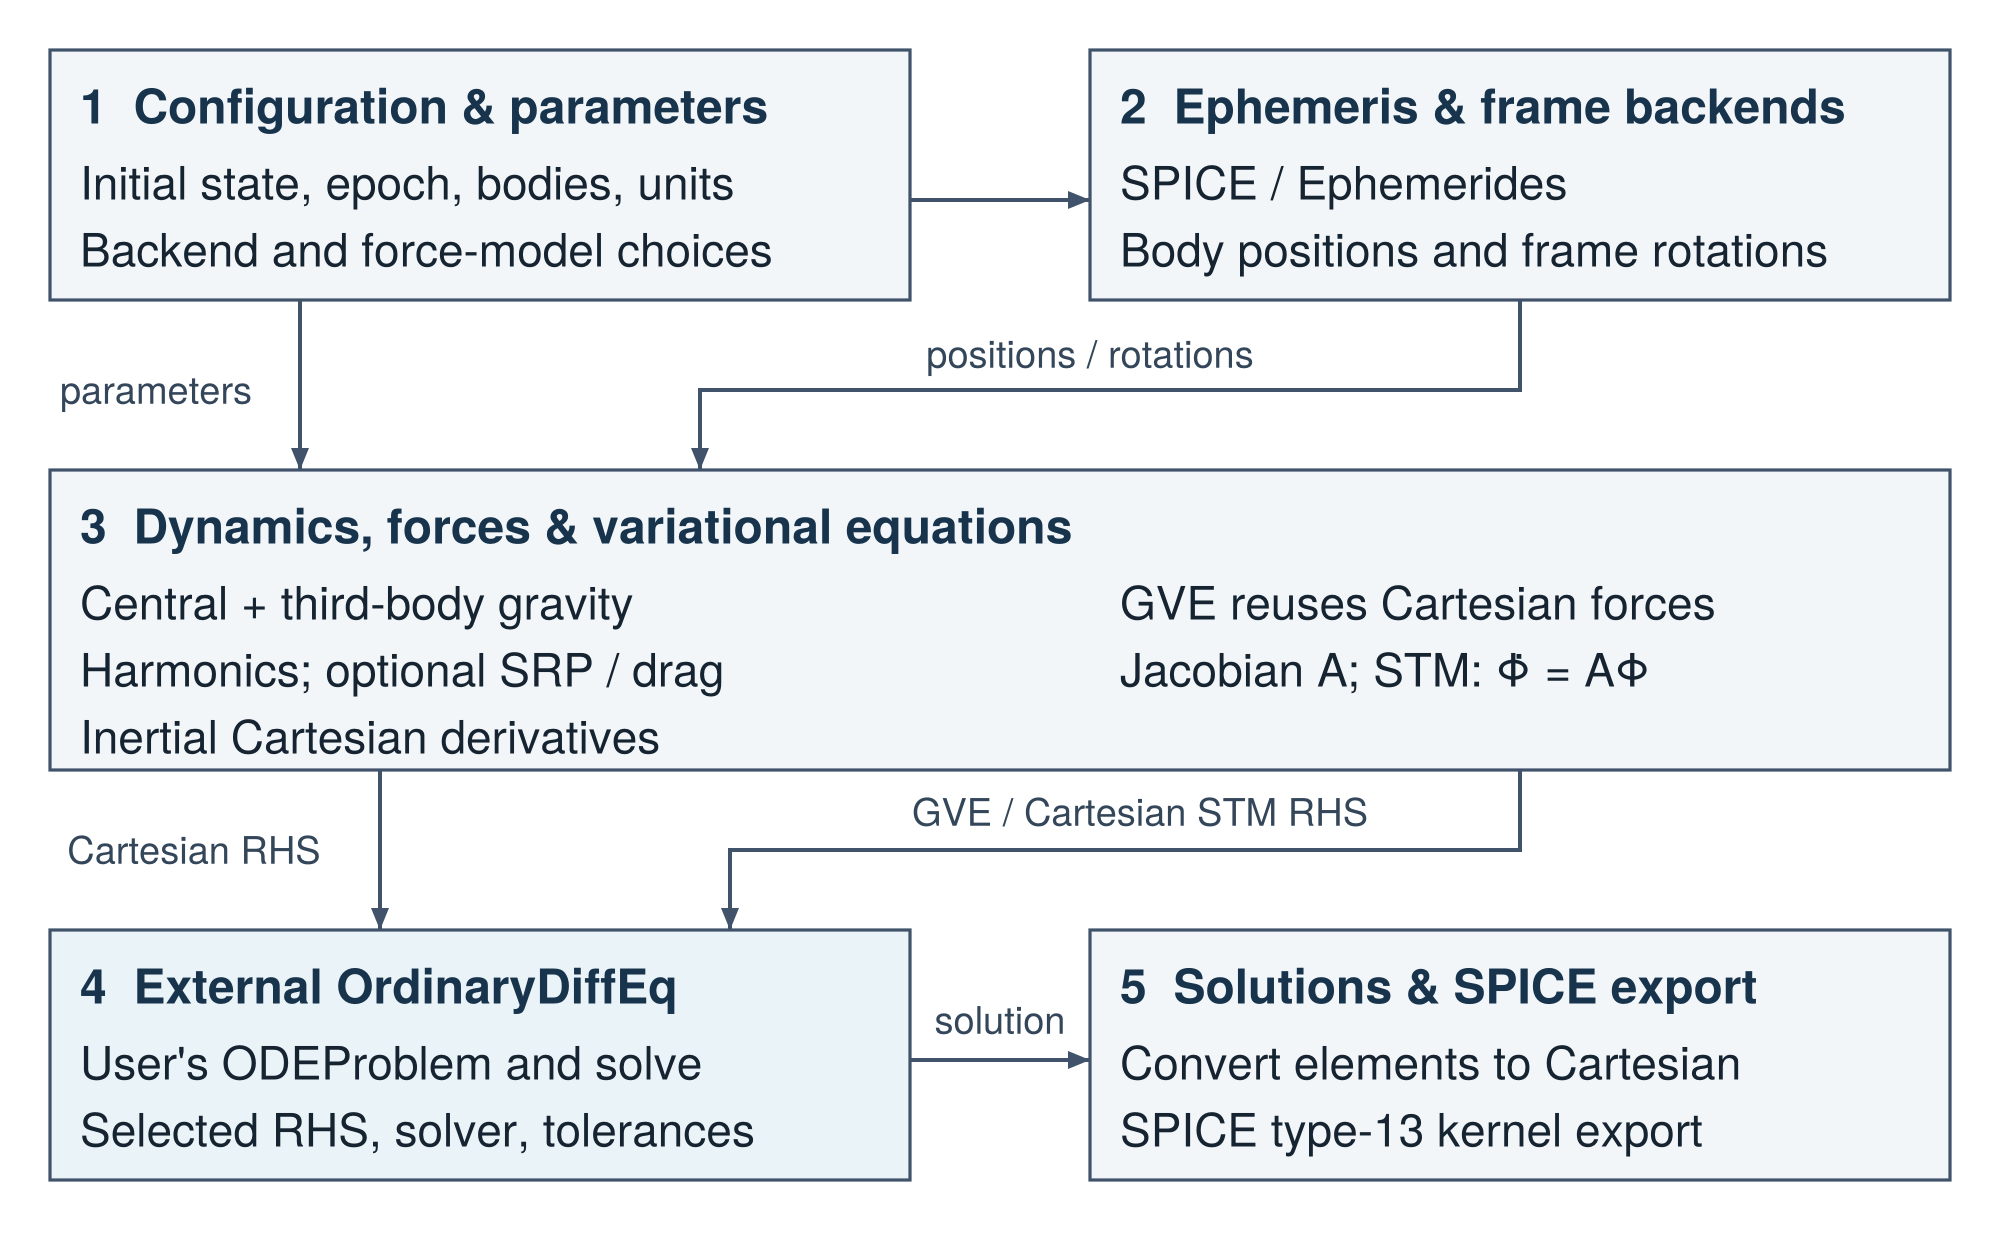
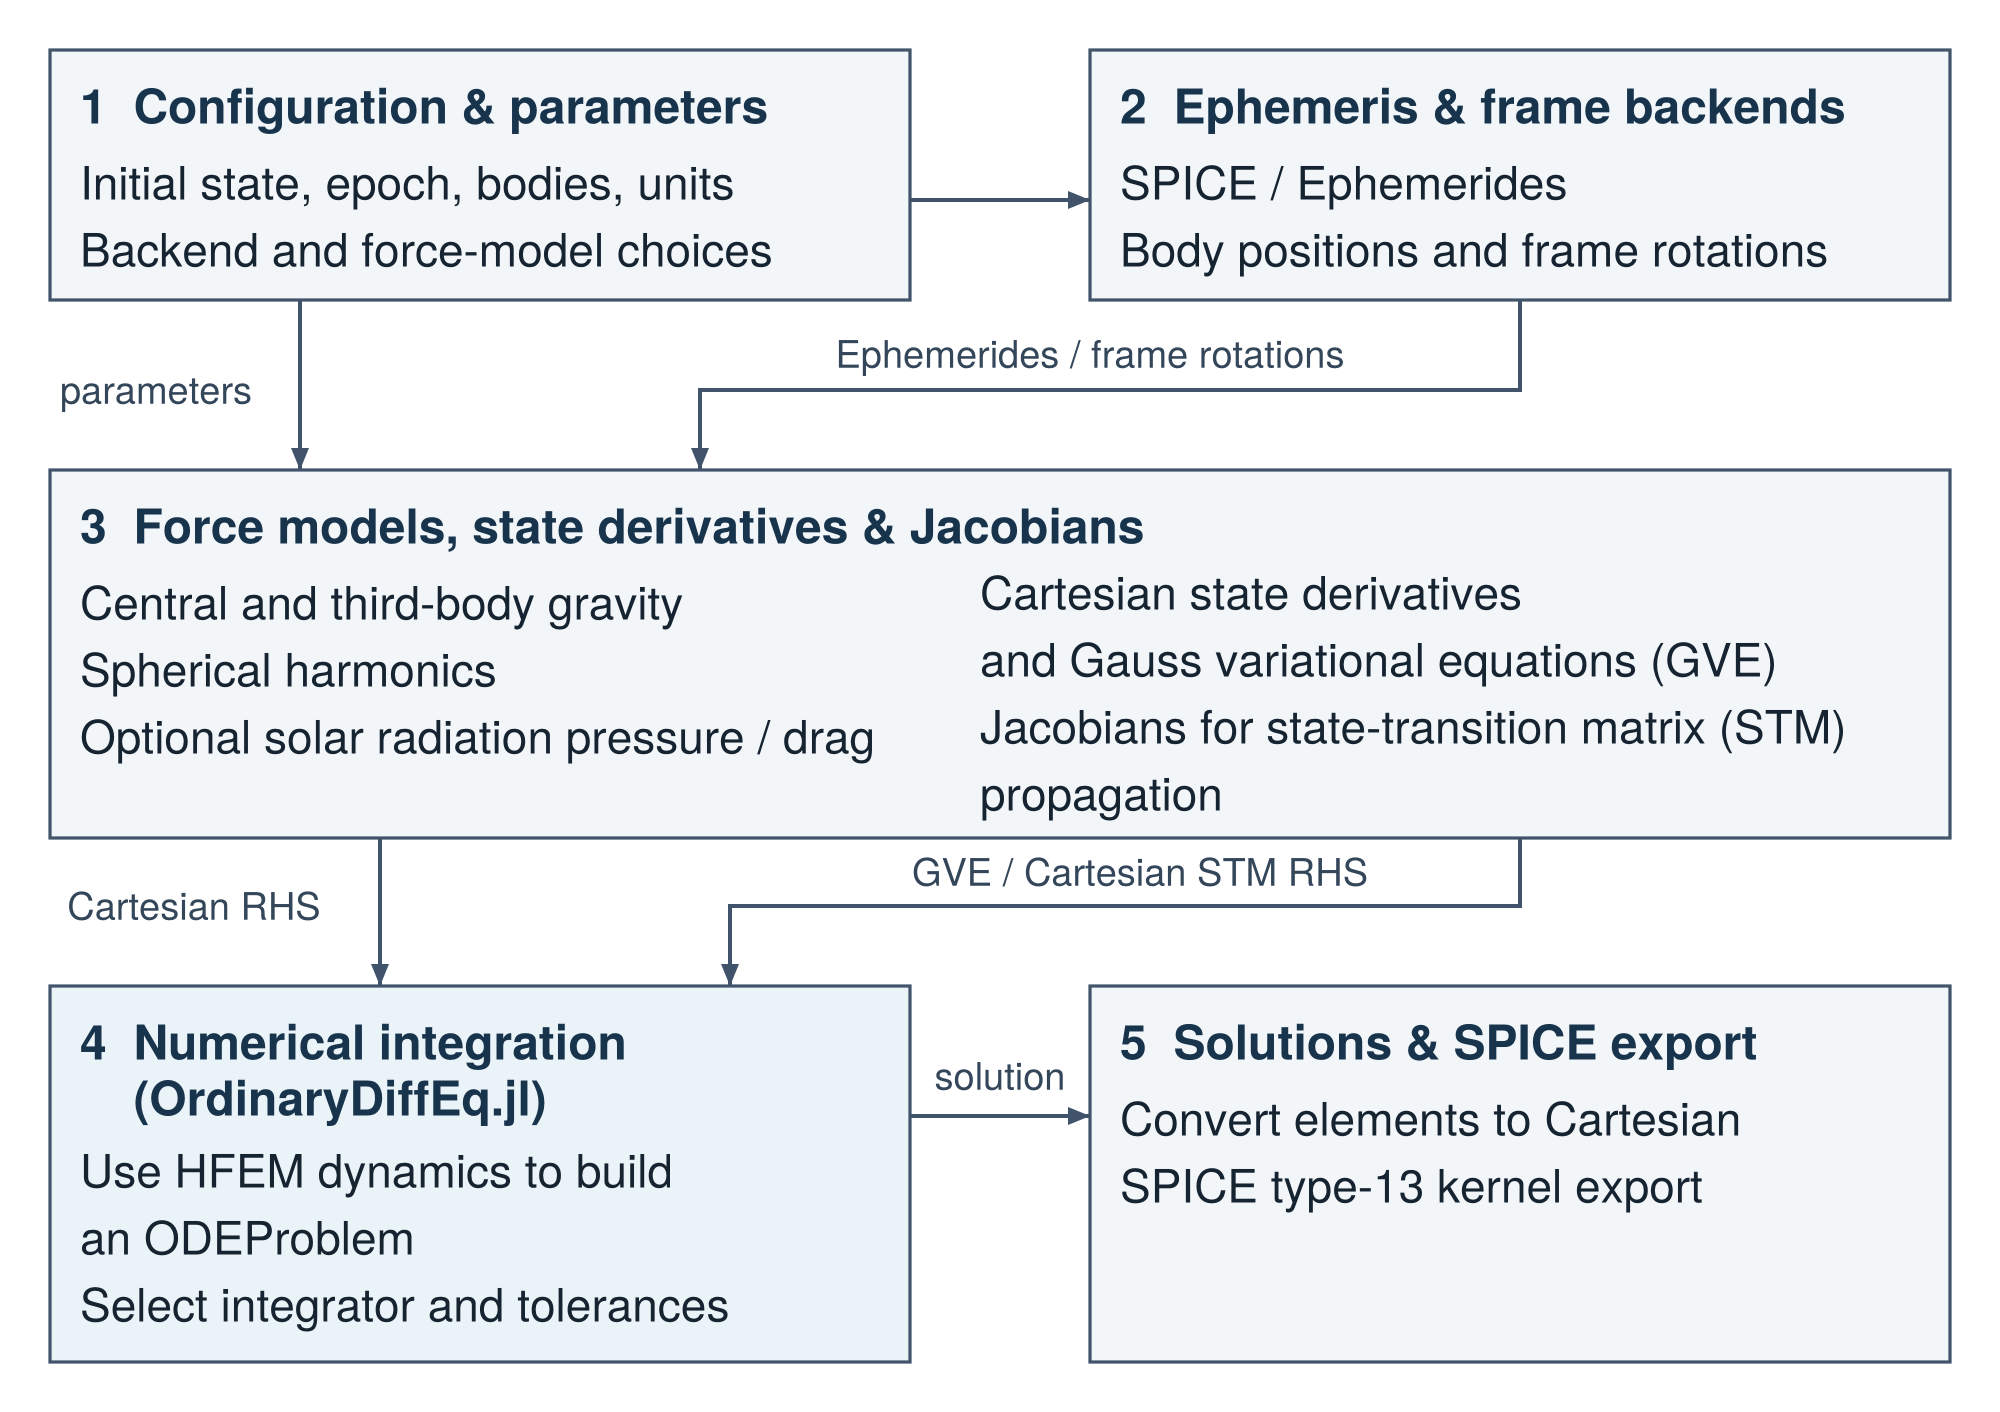
edited figures 2, 4 and refined text

Changed region(s): [[0.031, 0.0306, 0.992, 0.9806], [0.031, 0.0306, 0.465, 0.2452]]

diff --git a/paper/paper.md b/paper/paper.md
@@ -26,18 +26,18 @@ bibliography: paper.bib
 
 `HighFidelityEphemerisModel.jl` is an open-source Julia [@bezanson2017julia] package for modeling high-fidelity translational dynamics of spacecraft. The package provides equations of motion that account for the gravitational influence of multiple celestial bodies using ephemeris data from the Jet Propulsion Laboratory's SPICE ecosystem [@acton1996spice], together with configurable perturbations from a spherical harmonics model of gravitational irregularities, solar radiation pressure, and atmospheric drag. It is designed to be fully compatible with Julia's `OrdinaryDiffEq.jl` ecosystem [@rackauckas2017differentialequations].
 
-The package supports trajectory propagation in Cartesian coordinates and Gauss variational equations formulated in modified equinoctial, classical Keplerian, and ordinary equinoctial elements. Additional capabilities include state-transition matrix propagation, Jacobian and Hessian evaluation, event-condition utilities, and export of propagated trajectories to SPICE spacecraft kernels. Ephemeris and reference-frame evaluations are supported through the SPICE kernels ecosystem. These capabilities enable researchers to incorporate high-fidelity spacecraft dynamics into trajectory analysis, sensitivity analysis, and optimization workflows, while also leveraging Julia's scientific computing libraries.
+The package supports trajectory propagation in Cartesian coordinates and Gauss variational equations formulated in modified equinoctial, classical Keplerian, and ordinary equinoctial elements. Additional capabilities include state-transition matrix propagation, Jacobian and Hessian evaluation, event-condition utilities, and export of propagated trajectories to SPICE spacecraft kernels. Ephemeris and reference-frame evaluations are supported through both the SPICE-based and Julia-native backends. These capabilities enable researchers to incorporate high-fidelity spacecraft dynamics into trajectory analysis, sensitivity analysis, and optimization workflows, while also leveraging Julia's scientific computing libraries.
 
 # Statement of need
 
-Accurate spacecraft trajectory propagation is essential for mission design, trajectory optimization, and dynamical analysis. Simplified models often provide valuable insight into spacecraft motion, but are insufficient in designing flyable nominal trajectories or in assessing realistic performance of guidance, navigation, and control (GNC) algorithms. While mature numerical integration libraries provide suitable algorithms for solving general initial value problems (IVP), these must be paired with efficient implementation of these high-fidelity dynamics models, often involving not only the equations of motion but also the variational equations that yield sensitivity information, commonly used by  workflows in Astrodynamics involving numerical optimization, filtering, and sensitivity analysis. This software addresses this need by providing configurable, ephemeris-based spacecraft dynamics within Julia's scientific computing ecosystem. By separating the equations of motion from the numerical integration algorithms, the package enables researchers and mission analysis engineers to combine high-fidelity dynamical models with existing differential-equation solvers and optimization tools.
+Accurate spacecraft trajectory propagation is essential for mission design, trajectory optimization, and dynamical analysis. Simplified models often provide valuable insight into spacecraft motion, but are insufficient in designing flyable nominal trajectories or in assessing realistic performance of guidance, navigation, and control (GNC) algorithms. While mature numerical integration libraries provide suitable algorithms for solving general initial value problems (IVPs), they must be paired with efficient implementations of high-fidelity dynamics models. These implementations often provide both equations of motion and variational equations, which yield sensitivity information used in numerical optimization, filtering, and sensitivity analysis. This software addresses this need by providing configurable, ephemeris-based spacecraft dynamics within Julia's scientific computing ecosystem. By separating the equations of motion from the numerical integration algorithms, the package enables researchers and mission analysis engineers to combine high-fidelity dynamical models with existing differential-equation solvers and optimization tools.
 Figure \ref{fig:hfem-hero} demonstrates some of the capabilities of `HighFidelityEphemerisModel.jl`.
 
 ![Demonstration of `HighFidelityEphemerisModel.jl` capabilities.\label{fig:hfem-hero}](figures/hero_figure.png){width="100%"}
 
 # State of the field
 
-Several software packages provide high-fidelity spacecraft dynamics and trajectory propagation capabilities in languages other than Julia. Orekit [@orekit] is a Java-based flight dynamics library offering comprehensive orbital propagation, reference-frame transformations, and mission analysis functionality. NASA's General Mission Analysis Tool (GMAT) [@gmat] provides an integrated environment for trajectory design, optimization, and navigation through graphical, scripting, and programmatic interfaces. Basilisk [@Kenneally2020-zn] is a modular simulation framework that combines spacecraft dynamics with guidance, navigation, and control models, exposed as a python package. Nyx [@nyxspace] provides a Rust-based astrodynamics toolkit for trajectory propagation and orbit determination, while Brahe [@eddy2026brahe] offers a composable astrodynamics library with Rust and Python interfaces, particularly for satellite dynamics and mission operations.
+Several software packages provide high-fidelity spacecraft dynamics and trajectory propagation capabilities in languages other than Julia. Orekit [@orekit] is a Java-based flight dynamics library offering comprehensive orbital propagation, reference-frame transformations, and mission analysis functionality. NASA's General Mission Analysis Tool (GMAT) [@gmat] provides an integrated environment for trajectory design, optimization, and navigation through graphical, scripting, and programmatic interfaces. Basilisk [@Kenneally2020-zn] is a modular simulation framework that combines spacecraft dynamics with guidance, navigation, and control models, exposed as a Python package. Nyx [@nyxspace] provides a Rust-based astrodynamics toolkit for trajectory propagation and orbit determination, while Brahe [@eddy2026brahe] offers a composable astrodynamics library with Rust and Python interfaces, particularly for satellite dynamics and mission operations.
 
 While these tools offer extensive capabilities, `HighFidelityEphemerisModel.jl` addresses a more focused requirement: providing configurable, ephemeris-based equations of motion that can be directly incorporated into Julia's scientific computing workflows. 
 Rather than providing a comprehensive mission analysis toolkit or implementing separate numerical integration algorithms, `HighFidelityEphemerisModel.jl` exposes reusable dynamical models compatible with `OrdinaryDiffEq.jl`. This enables researchers to combine efficient, high-fidelity force models with numerical integration, sensitivity analysis, and trajectory optimization methods within the same programming environment.
@@ -56,7 +56,7 @@ Within the Julia ecosystem, there are a number of mature spacecraft-related pack
 A central architectural decision is the separation of dynamical models from ephemeris evaluation and numerical integration. `HighFidelityEphemerisModel.jl` provides two parameter backends: `SpiceParameters`, which queries NAIF SPICE directly [@acton1996spice]; and `EphemeridesParameters`, which uses the Julia-native `Ephemerides.jl` and `FrameTransformations.jl` libraries [@jsmdEphemerides; @jsmdFrameTransformations].
 Julia's multiple dispatch allows the same high-level equations-of-motion functions, `eom_Nbody!` and `eom_NbodySH!`, to operate with these different parameter types. Direct SPICE evaluation provides an established reference implementation, while the Julia-native backend supports automatic differentiation and tested multithreaded propagation workflows without relying on direct CSPICE calls during each force evaluation.
 
-Numerical integration is delegated to `OrdinaryDiffEq.jl` [@rackauckas2017differentialequations]. This self-contained example propagates a Moon-centered state with Earth and Sun point-mass perturbations. 
+Numerical integration is delegated to `OrdinaryDiffEq.jl` [@rackauckas2017differentialequations].
 <!-- Run it from the `HighFidelityEphemerisModel.jl` repository using `julia --project=.` after installing its declared dependencies. Download the required NAIF kernels beforehand and set the `SPICE` environment variable to their root directory, with `lsk/`, `spk/`, and `pck/` subdirectories. -->
 
 The package also provides automatic-differentiation-based Jacobian and Hessian calculations through `ForwardDiff.jl` [@revels2016forwarddiff], together with state-transition matrix propagation for sensitivity analysis. Propagated trajectories can be exported to SPICE type-13 ephemeris kernels, with utilities supporting multiple trajectory segments and maneuver metadata. Together, these capabilities facilitate the integration of high-fidelity spacecraft dynamics into trajectory optimization, GNC algorithm designs, and reproducible mission-analysis workflows.
@@ -64,7 +64,7 @@ The package also provides automatic-differentiation-based Jacobian and Hessian c
 
 Figure \ref{fig:hfem-architecture} summarizes these interfaces.
 
-![`HighFidelityEphemerisModel.jl` architecture. Cartesian forces support direct propagation and Gauss variational equations (GVE). Jacobians drive Cartesian state-transition matrix (STM) evolution. Element solutions require Cartesian conversion before SPICE export. \label{fig:hfem-architecture}](figures/hfem_architecture.png){width="100%"}
+![`HighFidelityEphemerisModel.jl` architecture. HFEM dynamics support Cartesian propagation and Gauss variational equations (GVE). Jacobians support state-transition matrix (STM) propagation. Element solutions require Cartesian conversion before SPICE export. \label{fig:hfem-architecture}](figures/hfem_architecture.png){width="100%"}
 
 
 ## Validation
@@ -77,7 +77,7 @@ We assessed the numerical consistency of `HighFidelityEphemerisModel.jl` (HFEM) 
 | LLO-MESH20 | Moon | Earth + Sun | 20×20 | `MOON_PA` | 7 d |
 | LEO-EMSH8 | Earth | Moon + Sun | 8×8 | `IAU_EARTH` | 7 d |
 
-: Extended validation cases. Frames identify the axes used to evaluate spherical harmonics. \label{tbl:validation-cases}
+: Validation cases. Frames identify the axes used to evaluate spherical harmonics. \label{tbl:validation-cases}
 
 For each external implementation, we compared the propagated Cartesian states with an HFEM SPICE-backed reference using the corresponding physical configuration and numerical integration settings matched as closely as supported. GMAT employed native RK89 integration in a continuous propagation, with the HFEM reference using corresponding numerical controls and the recorded native output times. To maintain consistent time-dependent dynamics, the ET/TDB equations were transformed into GMAT's elapsed-A1 integration coordinate. Orekit used DP853, Nyx a source-derived RK89 reference, and Basilisk RKF78 with a 0.025 s task cadence. The GMAT comparison uses a shared external gravity/third-body force evaluator; other comparisons also share selected inputs or numerical components. Matching the integration methods does not imply identical internal step sequences or fully independent force-model validation.
 
@@ -118,7 +118,7 @@ Measurements used an AMD Ryzen 7 3700X with one numerical thread per workflow. H
 
 # Research impact
 
-`HighFidelityEphemerisModel.jl` has supported several studies on high-fidelity trajectory design and GNC in cislunar space [@shimane2026optimizationbasedformationflightlibration; @Shimane2026-qj; @phung2026verticalorbits]. This application demonstrates the integration of ephemeris-based spacecraft dynamics, sensitivity analysis, and trajectory propagation into larger numerical optimization and mission-analysis workflows.
+`HighFidelityEphemerisModel.jl` has supported several studies on high-fidelity trajectory design and GNC in cislunar space [@shimane2026optimizationbasedformationflightlibration; @Shimane2026-qj; @phung2026verticalorbits]. These applications demonstrate the integration of ephemeris-based spacecraft dynamics, sensitivity analysis, and trajectory propagation into larger numerical optimization and mission-analysis workflows.
 The package is registered in the Julia General registry, distributed under the MIT licence, and installed with the following command:
 
 ```shell
